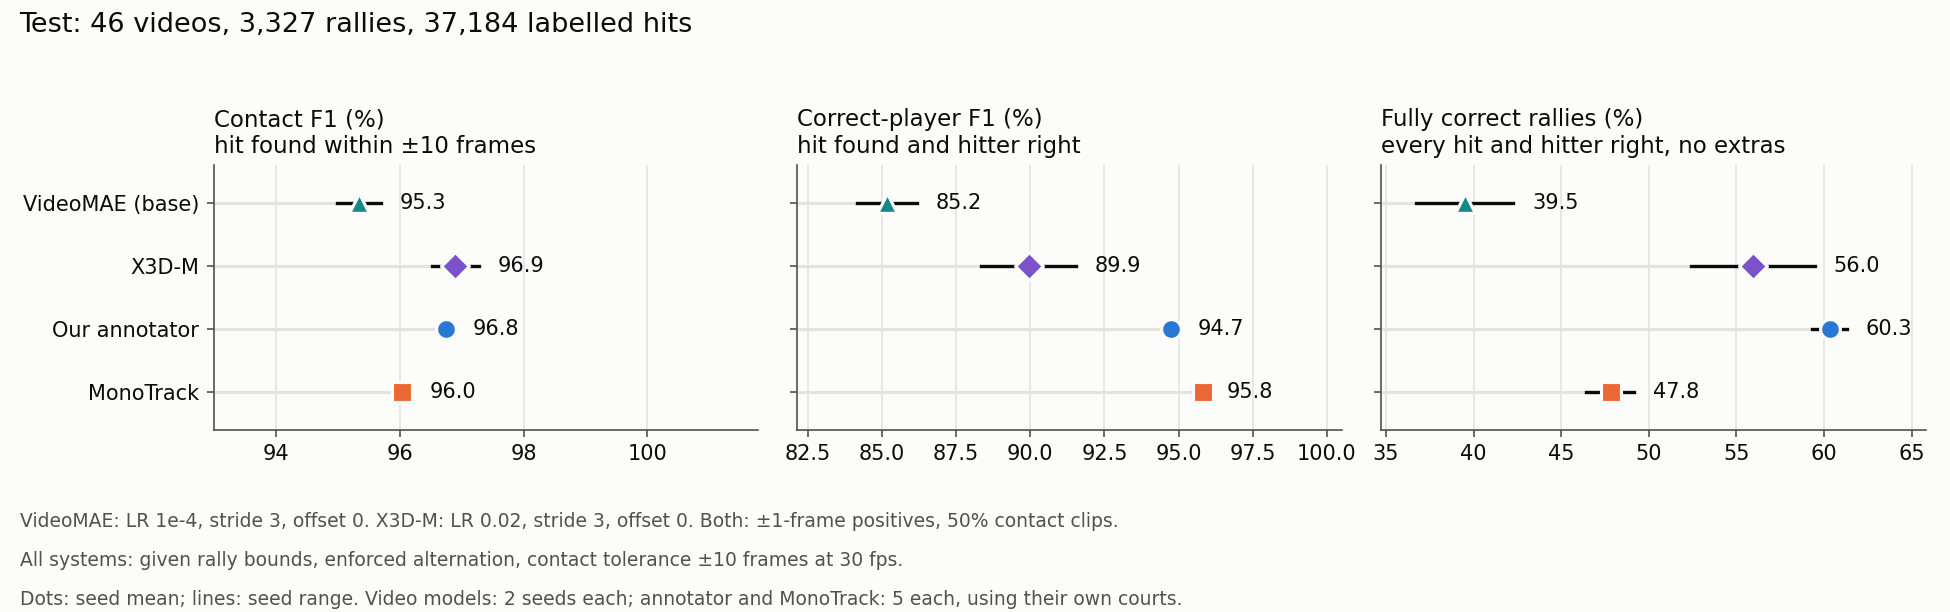
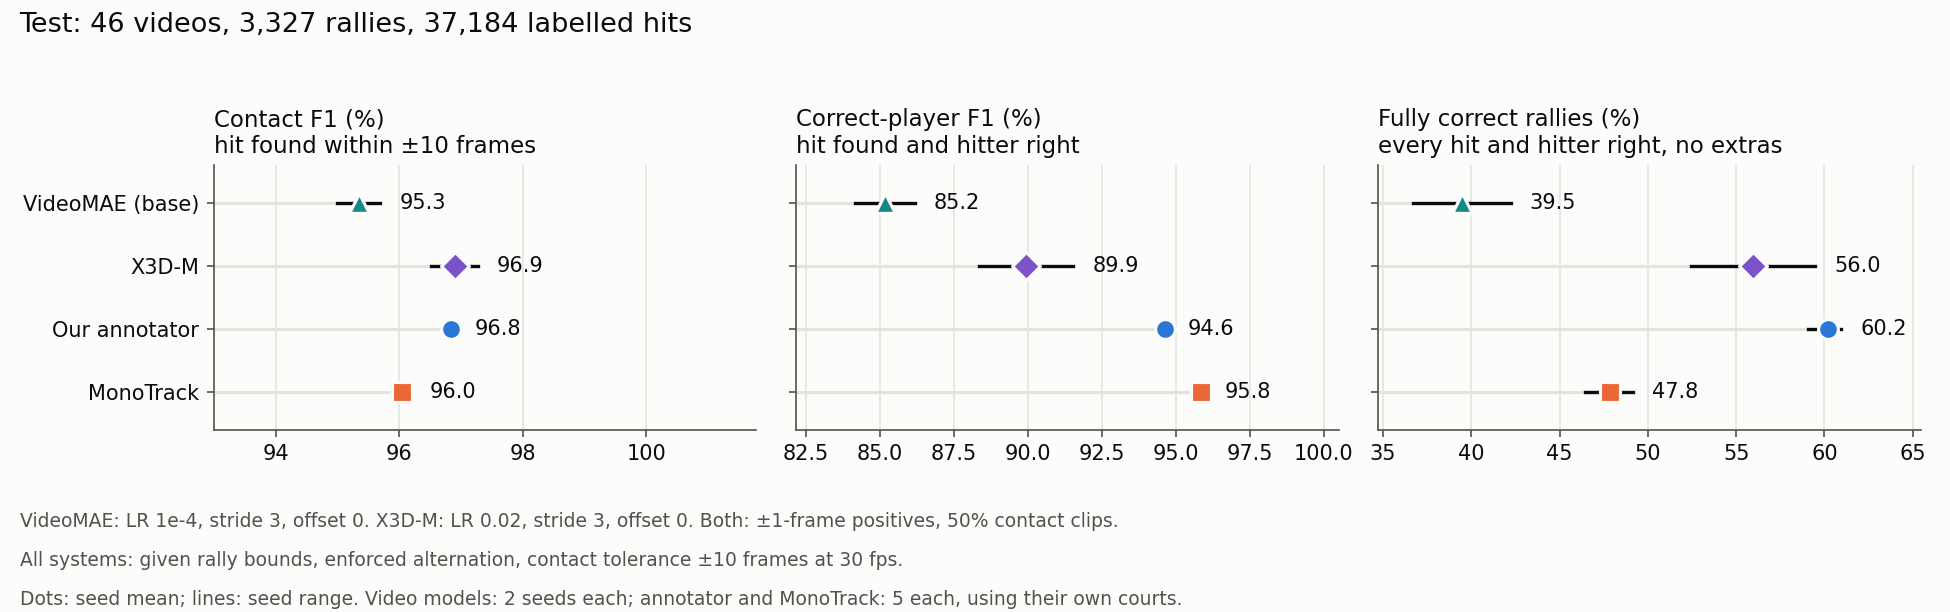
Compare video models with the new annotator winner
Refresh the X3D and VideoMAE annotator reference statistics and shared
comparison figure using the same supplied-boundary, 32-video-trained
condition. Point figure generation at the new tracked score summary.

Validation: regenerated the comparison figure and checked both timing
tolerances against the five-seed results. Ruff and source-loading smoke
checks passed.

diff --git a/experiments/annotator/video_models_benchmark/writeup_scripts/make_videomae_figures.py b/experiments/annotator/video_models_benchmark/writeup_scripts/make_videomae_figures.py
@@ -67,7 +67,7 @@ from experiments.annotator.video_models_benchmark.writeup_scripts.make_x3d_figur
 BENCHMARK = Path(__file__).resolve().parents[1]
 RESULTS = BENCHMARK / 'results'
 FIGURES = BENCHMARK / 'writeup_figures'
-MONOTRACK_SUMMARY = (BENCHMARK.parent / 'monotrack_benchmark/benchmark_results/discovery_context/primary'
+MONOTRACK_SUMMARY = (BENCHMARK.parent / 'monotrack_benchmark/benchmark_results/hp_search/primary'
                      / 'contact_summary.json.gz')
 VIDEOMAE_COLOUR = '#138a8a'
 # Indigo stays distinct from LR 1e-4's orange under protanopia; the two share one figure.

diff --git a/experiments/annotator/video_models_benchmark/videomae_results.md b/experiments/annotator/video_models_benchmark/videomae_results.md
@@ -25,14 +25,14 @@ counts in the scores. X3D-M also uses stride 3, offset 0; our annotator and Mono
 
 **VideoMAE (base) gets 39.50% of test rallies fully correct on average at ±10
 frames** (42.26% and 36.73% for the two seeds). X3D-M gets 55.95%, MonoTrack
-47.83% and our annotator 60.34%. VideoMAE's better seed scores below the weaker
+47.83% and our annotator 60.18%. VideoMAE's better seed scores below the weaker
 seed of both X3D-M and MonoTrack.
 
 **VideoMAE finds hits nearly as well as the other systems, but names the hitter
 less reliably.** Its test contact F1 of 95.35% is 0.7–1.6 points below the
 others. It misses slightly more hits than X3D-M (recall 96.89% against 97.44%)
 and adds slightly more extras (precision 93.86% against 96.37%). Its
-correct-player F1 is 85.17%, against 89.95% for X3D-M, 94.75% for our annotator
+correct-player F1 is 85.17%, against 89.95% for X3D-M, 94.63% for our annotator
 and 95.84% for MonoTrack.
 
 **Predicting at every third frame made 6.6–11.2 points more validation rallies
@@ -153,11 +153,11 @@ variation, not confidence intervals.
 |---|---|---|---:|---:|---:|
 | ±10 frames | VideoMAE (base), LR 1e-4 | Stride 3, offset 0 | 95.35 (95.00–95.70) | 85.17 (84.15–86.19) | 39.50 (36.73–42.26) |
 | ±10 frames | X3D-M, selected configuration | Stride 3, offset 0 | 96.90 (96.52–97.28) | 89.95 (88.36–91.54) | 55.95 (52.42–59.48) |
-| ±10 frames | Our annotator, our courts | Dense | 96.75 (96.67–96.88) | 94.75 (94.48–95.02) | 60.34 (59.30–61.29) |
+| ±10 frames | Our annotator, our courts | Dense | 96.85 (96.75–96.92) | 94.63 (94.32–94.78) | 60.18 (59.06–60.96) |
 | ±10 frames | MonoTrack, its own courts | Dense | 96.04 (95.95–96.18) | 95.84 (95.69–95.99) | 47.83 (46.44–49.17) |
 | ±5 frames | VideoMAE (base), LR 1e-4 | Stride 3, offset 0 | 93.97 (93.61–94.33) | 84.01 (83.00–85.01) | 33.81 (31.71–35.92) |
 | ±5 frames | X3D-M, selected configuration | Stride 3, offset 0 | 95.72 (95.19–96.26) | 88.96 (87.27–90.65) | 49.46 (45.60–53.32) |
-| ±5 frames | Our annotator, our courts | Dense | 95.01 (94.81–95.21) | 93.16 (92.99–93.30) | 50.08 (49.05–51.73) |
+| ±5 frames | Our annotator, our courts | Dense | 95.59 (95.51–95.64) | 93.50 (93.19–93.63) | 52.47 (51.67–52.90) |
 | ±5 frames | MonoTrack, its own courts | Dense | 94.86 (94.75–95.06) | 94.75 (94.59–94.97) | 40.26 (38.71–41.93) |
 
 ![Test contact F1, correct-player F1 and fully correct rallies for VideoMAE (base) at stride 3, offset 0, and for X3D-M, our annotator and MonoTrack, with seed ranges](writeup_figures/test_comparison.png)
@@ -325,6 +325,7 @@ PYTHONPATH=src:. python experiments/annotator/video_models_benchmark/writeup_scr
   --runs /path/to/videomae-runs \
   --validation-index /path/to/rgb256-cache/index.json.gz
 PYTHONPATH=src:. python experiments/annotator/video_models_benchmark/writeup_scripts/make_videomae_figures.py \
+  --monotrack-summary experiments/annotator/monotrack_benchmark/benchmark_results/hp_search/primary/contact_summary.json.gz \
   > experiments/annotator/video_models_benchmark/results/videomae_stride3/tables.md
 ```
 

diff --git a/experiments/annotator/video_models_benchmark/x3d_results.md b/experiments/annotator/video_models_benchmark/x3d_results.md
@@ -9,7 +9,7 @@ on 46 videos: 3,327 rallies holding 37,184 labelled hits.
 ## Outcome
 
 **X3D-M gets 55.95% of test rallies fully correct at stride 3, offset 0 and ±10-frame tolerance,**
-compared with 60.34% for our annotator and 47.83% for MonoTrack. Its correct-player
+compared with 60.18% for our annotator and 47.83% for MonoTrack. Its correct-player
 F1 is 89.95%, below both systems. The two X3D seeds span 52.42–59.48% fully
 correct rallies; the comparison systems each use five seeds.
 
@@ -64,7 +64,7 @@ row only, because the positive windows label different frames as contacts.
 All three systems receive the same rally bounds. Our annotator and MonoTrack
 each use their own court estimates, corresponding to `annotator_our_courts`
 and `monotrack_own_courts` in the
-[comparison scores](../monotrack_benchmark/benchmark_results/discovery_context/primary/contact_summary.json.gz).
+[comparison scores](../monotrack_benchmark/benchmark_results/hp_search/primary/contact_summary.json.gz).
 X3D uses RGB clips sampled at stride 3, offset 0. Timing tolerances are ±5 and ±10 frames at 30 fps, scaled
 to each video's frame rate.
 
@@ -75,10 +75,10 @@ variation. X3D uses stride 3, offset 0 and enforced alternation.
 | Tolerance | System | Contact F1 (%) | Correct-player F1 (%) | Fully correct rallies (%) |
 |---|---|---:|---:|---:|
 | ±10 frames | X3D-M | 96.90 (96.52–97.28) | 89.95 (88.36–91.54) | 55.95 (52.42–59.48) |
-| ±10 frames | Our annotator, our courts | 96.75 (96.67–96.88) | 94.75 (94.48–95.02) | 60.34 (59.30–61.29) |
+| ±10 frames | Our annotator, our courts | 96.85 (96.75–96.92) | 94.63 (94.32–94.78) | 60.18 (59.06–60.96) |
 | ±10 frames | MonoTrack, its own courts | 96.04 (95.95–96.18) | 95.84 (95.69–95.99) | 47.83 (46.44–49.17) |
 | ±5 frames | X3D-M | 95.72 (95.19–96.26) | 88.96 (87.27–90.65) | 49.46 (45.60–53.32) |
-| ±5 frames | Our annotator, our courts | 95.01 (94.81–95.21) | 93.16 (92.99–93.30) | 50.08 (49.05–51.73) |
+| ±5 frames | Our annotator, our courts | 95.59 (95.51–95.64) | 93.50 (93.19–93.63) | 52.47 (51.67–52.90) |
 | ±5 frames | MonoTrack, its own courts | 94.86 (94.75–95.06) | 94.75 (94.59–94.97) | 40.26 (38.71–41.93) |
 
 ![Test contact F1, correct-player F1 and fully correct rallies for VideoMAE, X3D-M, our annotator and MonoTrack](writeup_figures/test_comparison.png)

diff --git a/experiments/annotator/video_models_benchmark/results/videomae_stride3/tables.md b/experiments/annotator/video_models_benchmark/results/videomae_stride3/tables.md
@@ -58,11 +58,11 @@ Available sampling scores (%) at ±5 frames: Dense, Stride 3, offset 0, Stride 3
 |---|---|---:|---:|---:|
 | ±10 frames | VideoMAE (base) | 95.35 (95.00–95.70) | 85.17 (84.15–86.19) | 39.50 (36.73–42.26) |
 | ±10 frames | X3D-M | 96.90 (96.52–97.28) | 89.95 (88.36–91.54) | 55.95 (52.42–59.48) |
-| ±10 frames | Our annotator | 96.75 (96.67–96.88) | 94.75 (94.48–95.02) | 60.34 (59.30–61.29) |
+| ±10 frames | Our annotator | 96.85 (96.75–96.92) | 94.63 (94.32–94.78) | 60.18 (59.06–60.96) |
 | ±10 frames | MonoTrack | 96.04 (95.95–96.18) | 95.84 (95.69–95.99) | 47.83 (46.44–49.17) |
 | ±5 frames | VideoMAE (base) | 93.97 (93.61–94.33) | 84.01 (83.00–85.01) | 33.81 (31.71–35.92) |
 | ±5 frames | X3D-M | 95.72 (95.19–96.26) | 88.96 (87.27–90.65) | 49.46 (45.60–53.32) |
-| ±5 frames | Our annotator | 95.01 (94.81–95.21) | 93.16 (92.99–93.30) | 50.08 (49.05–51.73) |
+| ±5 frames | Our annotator | 95.59 (95.51–95.64) | 93.50 (93.19–93.63) | 52.47 (51.67–52.90) |
 | ±5 frames | MonoTrack | 94.86 (94.75–95.06) | 94.75 (94.59–94.97) | 40.26 (38.71–41.93) |
 
 Available sampling scores (%) at ±10 frames: Stride 3, offset 0
